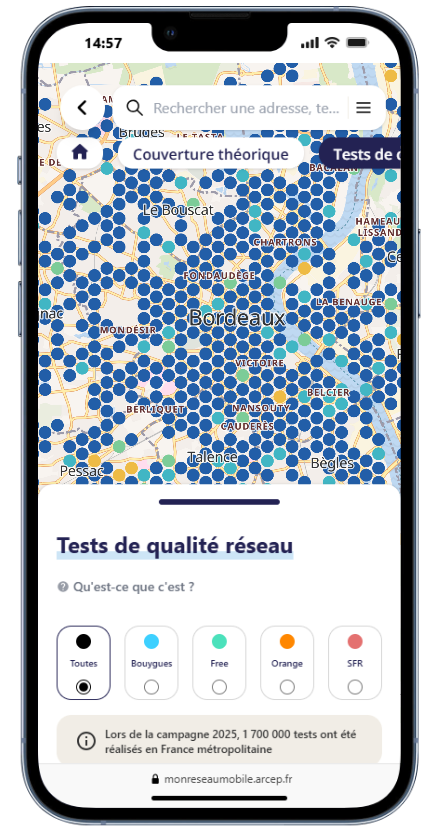
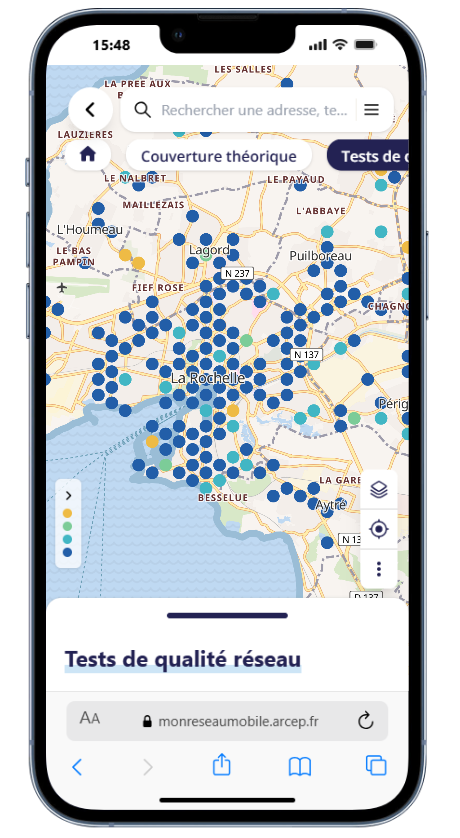
Update Readme

diff --git a/README.md b/README.md
@@ -87,8 +87,8 @@ disponibles par opérateur et par technologie (2G / 3G / 4G) :
 ## 🖼️ Captures et démonstration
 
 | Couverture mobile | Qualité de service | Antennes et déploiements | Zones à couvrir | Signalements |
-| :---: | :---: | :---: |
-| <img src="docs/coverage.png" alt="Carte de couverture mobile" width="250"> | <img src="docs/qos.png" alt="Qualité de service" width="250"> | <img src="docs/antenna.png" alt="Antennes et déploiements" width="250"> | <img src="docs/zac.png" alt="Zones à couvrir" width="250"> | <img src="docs/signalements.png" alt="Signalements" width="250"> | 
+| :---: | :---: | :---: | :---: | :---: |
+| <img src="docs/coverage.png" alt="Carte de couverture mobile par opérateur" width="150"> | <img src="docs/qos.png" alt="Tests de qualité de service" width="150"> | <img src="docs/antenna.png" alt="Antennes et déploiements 4G/5G" width="150"> | <img src="docs/zac.png" alt="Zones à couvrir du dispositif de couverture ciblée" width="150"> | <img src="docs/signalements.png" alt="Signalements J'alerte l'Arcep" width="150"> |
 
 Démonstration en ligne : **<https://monreseaumobile.arcep.fr/>**
 
@@ -131,6 +131,8 @@ Les jeux de données sont, sauf mention contraire, publiés sous **Licence Ouver
 - **Back-end** : Django.
 - **Données géospatiales** : PostgreSQL + PostGIS.
 - **Conteneurisation & déploiement** : Docker, Ansible.
+
+---
 
 ## ♿ Accessibilité et éco-conception
 